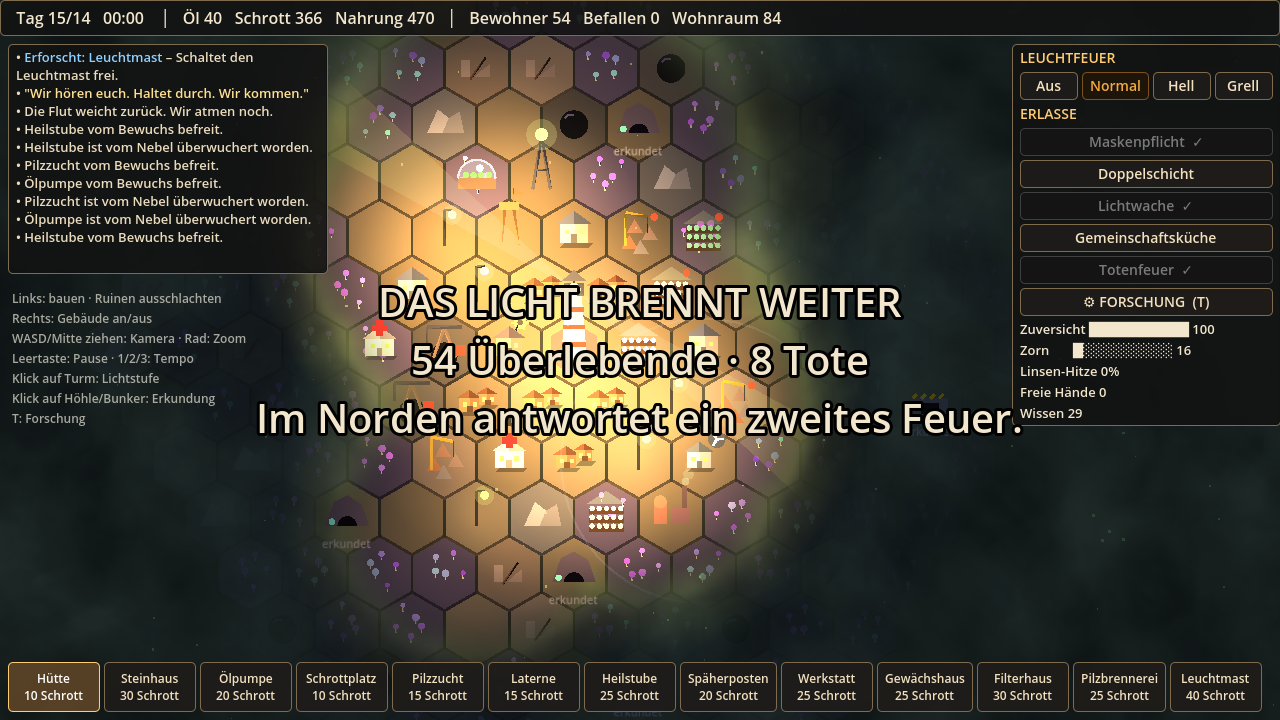
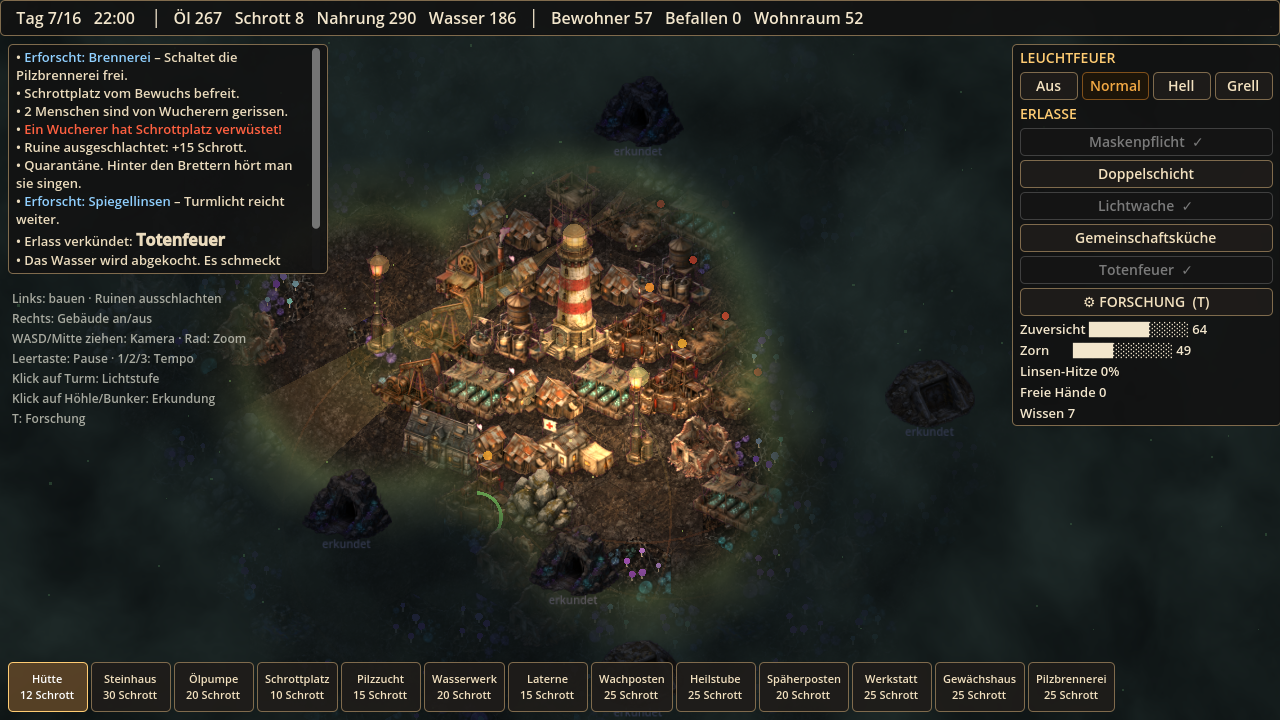
Leuchtfeuer: painted sprites for buildings, terrain, colonists and creatures; water, creature raids, guard posts, strikes, sabotage, tighter fog and harder balance
Claude-Session: https://claude.ai/code/session_01E5rt3pWNQ4N5fdCaZqhZuK

diff --git a/leuchtfeuer/tools/fetch_sprites.py b/leuchtfeuer/tools/fetch_sprites.py
@@ -1,0 +1,57 @@
+"""Lädt die generierten Sprites, stellt sie vor Magenta frei und schneidet sie zu."""
+import glob, os, re, sys, urllib.request, io
+from PIL import Image
+import numpy as np
+
+MAP = {
+ "KkyND9ERYRODFfPqbItn": "tower", "Pr7ZRb7KDSPI4PCnRHQn": "hut", "LUh2ijicIdmjIXBVz3xl": "stone",
+ "eGJulJCPNkw8IEpVf5uV": "pump", "zyQhFqdDA26SpAnifKvW": "yard", "bBrqrvzx0ju6g4zalDbz": "farm",
+ "9RWfRUT6E83QGUNV3Nto": "lamp", "8QhLUQDREhojXnV8adZZ": "clinic", "DEZKYjGQh0Cr5eZq0G4I": "scout",
+ "hiRirJfPBGwlbWS2jYkW": "lab", "lqZsPOW7vPd5NP5CA5v4": "green", "MDs0Ap4bZzIchOv9u5WN": "filter",
+ "zL7RHTo0v9phvGO5vZqQ": "brew", "3Xg9c0AjvTsW1np00HNE": "beacon", "ViQ3chEQSs9h5OotR9ev": "water",
+ "dUwIi86sU9iAPrsHDjk1": "guard", "Egeo1jvor7c4Zh3opfSx": "bunker", "S87fuceBNnDHmYaPXO9M": "cave",
+ "xAUJ17UQCgOh2jAMhvcR": "person", "pFE9XR7EpH2NwtZ6uhe4": "creature",
+ "jusDiJmVRnmHYKa1C2Kr": "tex_ground", "DujpCVenNJIW8ByacxY1": "tex_fungus",
+ "KM2do382haq8uV6YUsRj": "ruin", "Yuafh8xOhlNC4N68hL70": "rock", "VZnWnf7tOgSZtAX8bl5G": "oil",
+}
+OUT = os.path.join(os.path.dirname(__file__), "..", "sprites")
+txt = ""
+for f in glob.glob("/root/.claude/projects/-home-user-Store/*/tool-results/*") + glob.glob("/root/.claude/projects/-home-user-Store/*.jsonl"):
+    try: txt += open(f, errors="ignore").read()
+    except Exception: pass
+urls = {}
+for m in re.finditer(r'https://storage\.googleapis\.com/[^"\s\\]*content_generation/([A-Za-z0-9]+)/[A-Za-z0-9]+/content\.png\?[^"\s\\]*', txt):
+    urls[m.group(1)] = m.group(0)
+
+def key(im):
+    a = np.asarray(im.convert("RGB")).astype(np.float32)
+    r, g, b = a[..., 0], a[..., 1], a[..., 2]
+    # Magenta-Abstand: hohe R und B, niedriges G
+    mag = np.minimum(r, b) - g
+    alpha = np.clip(1.0 - (mag - 60) / 80.0, 0, 1)
+    # Farbsaum entfernen
+    spill = np.clip(np.minimum(r, b) - g - 20, 0, None) * (alpha < 1)
+    a[..., 0] -= spill * 0.6; a[..., 2] -= spill * 0.6
+    rgba = np.dstack([np.clip(a, 0, 255), alpha * 255]).astype(np.uint8)
+    im2 = Image.fromarray(rgba, "RGBA")
+    bb = im2.getchannel("A").point(lambda v: 255 if v > 40 else 0).getbbox()
+    return im2.crop(bb) if bb else im2
+
+missing = []
+for sid, name in MAP.items():
+    dst = os.path.join(OUT, name + ".png")
+    if os.path.exists(dst) and "--force" not in sys.argv:
+        continue
+    if sid not in urls:
+        missing.append(name); continue
+    data = urllib.request.urlopen(urls[sid], timeout=60).read()
+    im = Image.open(io.BytesIO(data))
+    if name.startswith("tex_"):
+        h = im.height
+        im = im.crop(((im.width - h) // 2, 0, (im.width + h) // 2, h)).resize((512, 512), Image.LANCZOS).convert("RGB")
+    else:
+        im = key(im)
+        im.thumbnail((320, 320), Image.LANCZOS)
+    im.save(dst)
+    print("ok", name, im.size)
+print("missing:", missing)
